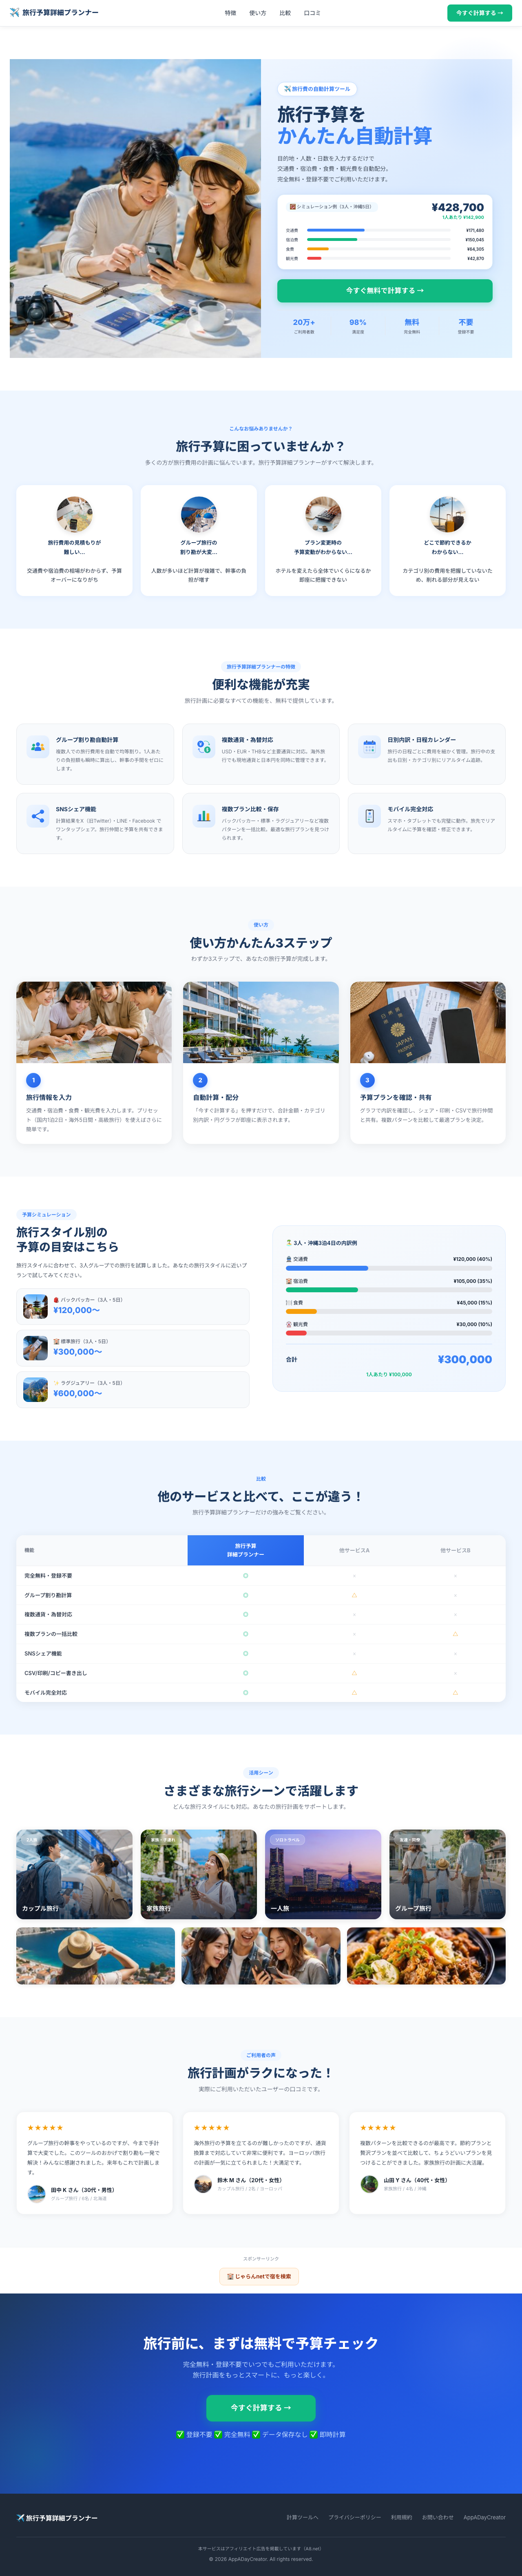
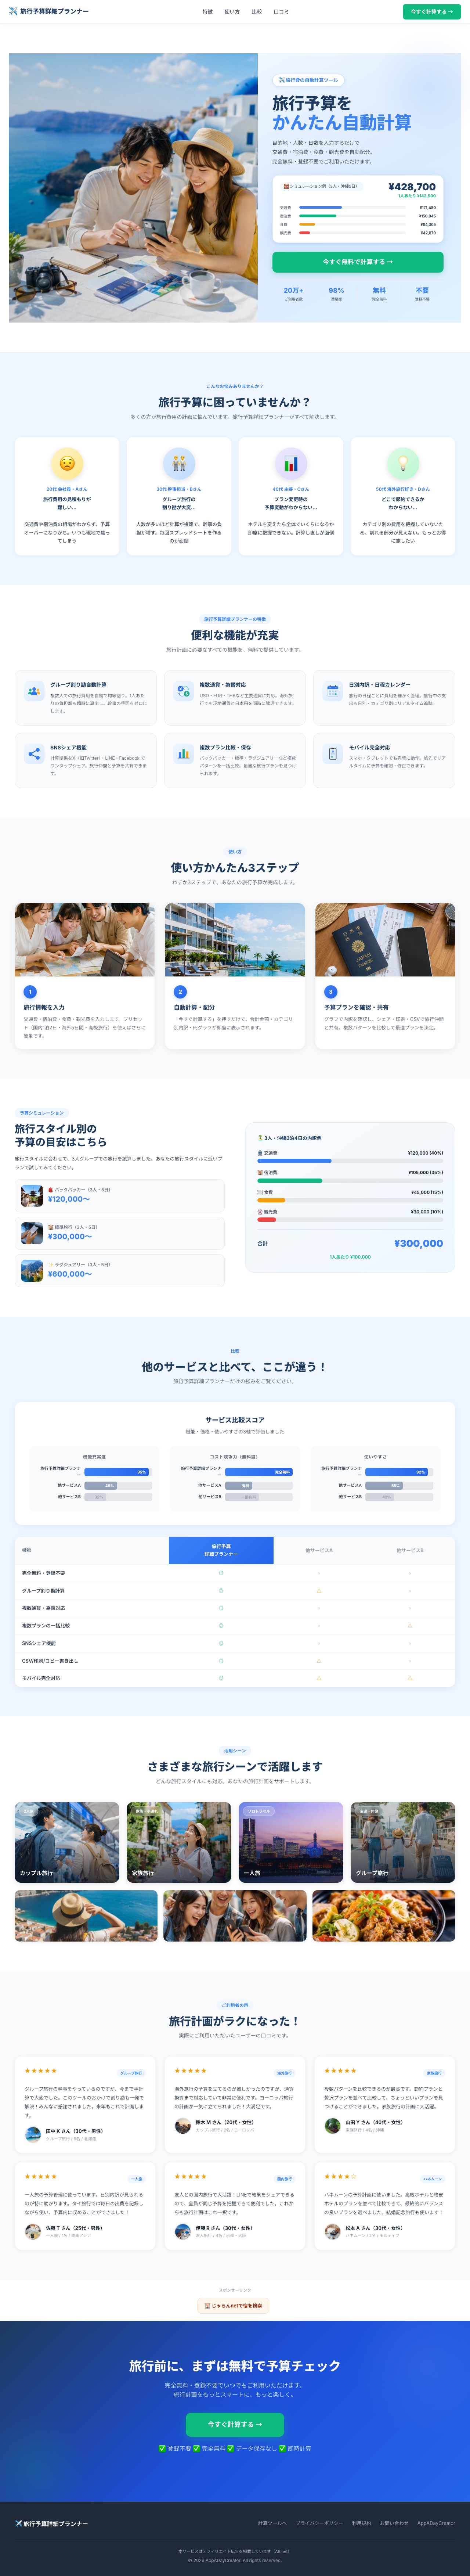
Rollback: step7 pass1 regressed (63->58)

diff --git a/lp/index.html b/lp/index.html
@@ -41,10 +41,10 @@ button{font-family:inherit;cursor:pointer}
 .lp-header-cta:hover{background:#059669;box-shadow:0 4px 12px rgba(16,185,129,.3)}
 
 /* ===== HERO ===== */
-.hero{display:grid;grid-template-columns:55% 45%;min-height:680px;overflow:hidden}
-.hero-photo{position:relative;overflow:hidden;min-height:680px}
-.hero-photo img{position:absolute;top:0;left:0;width:100%;height:100%;object-fit:cover;object-position:center}
-.hero-photo::after{content:'';position:absolute;inset:0;background:linear-gradient(to right,rgba(15,23,42,.15) 0%,rgba(15,23,42,.05) 70%,transparent 100%)}
+.hero{display:grid;grid-template-columns:1fr 1fr;min-height:640px;overflow:hidden}
+.hero-photo{position:relative;overflow:hidden}
+.hero-photo img{width:100%;height:100%;object-fit:cover;object-position:center}
+.hero-photo::after{content:'';position:absolute;inset:0;background:linear-gradient(to right,rgba(15,23,42,.08) 0%,transparent 60%)}
 .hero-content{background:linear-gradient(150deg,#eff6ff 0%,#dbeafe 50%,#e0f2fe 100%);display:flex;flex-direction:column;justify-content:center;padding:56px 48px 56px 40px;position:relative}
 .hero-content::before{content:'';position:absolute;top:-60px;right:-60px;width:300px;height:300px;background:radial-gradient(circle,rgba(59,130,246,.12) 0%,transparent 70%);pointer-events:none}
 .hero-badge{display:inline-flex;align-items:center;gap:8px;background:#fff;color:#3b82f6;font-size:13px;font-weight:700;padding:6px 16px;border-radius:20px;border:1.5px solid #bfdbfe;margin-bottom:20px;width:fit-content;box-shadow:0 2px 8px rgba(59,130,246,.1)}
@@ -198,31 +198,6 @@ section{padding:80px 24px}
 /* ===== AFFILIATE preserved area ===== */
 .aff-strip{background:#fff;border-top:1px solid #f3f4f6;padding:16px 24px;text-align:center}
 
-/* ===== WORRY ILLUSTRATION AVATAR ===== */
-.worry-illus{width:88px;height:88px;border-radius:50%;display:flex;align-items:center;justify-content:center;font-size:44px;margin:0 auto 16px;box-shadow:0 4px 16px rgba(0,0,0,.12);flex-shrink:0}
-.worry-card .worry-name{font-size:12px;font-weight:700;color:#3b82f6;margin-bottom:6px}
-
-/* ===== COMPARISON VISUAL BARS ===== */
-.cmp-vis{background:#fff;border-radius:20px;padding:36px 40px;margin-bottom:32px;box-shadow:0 4px 24px rgba(59,130,246,.1)}
-.cmp-vis-header{text-align:center;margin-bottom:28px}
-.cmp-vis-header h3{font-size:18px;font-weight:800;color:#1e3a5f;margin-bottom:6px}
-.cmp-vis-header p{font-size:13px;color:#6b7280}
-.cmp-vis-cols{display:grid;grid-template-columns:repeat(3,1fr);gap:28px}
-.cmp-vis-cat{background:#f8fafc;border-radius:14px;padding:20px}
-.cmp-vis-cat-label{font-size:12px;font-weight:700;color:#6b7280;margin-bottom:14px;text-align:center;text-transform:uppercase;letter-spacing:.5px}
-.cmp-vis-row{display:flex;align-items:center;gap:10px;margin-bottom:9px}
-.cmp-vis-name{width:120px;font-size:11px;font-weight:600;color:#374151;flex-shrink:0;text-align:right}
-.cmp-vis-track{flex:1;height:22px;background:#e5e7eb;border-radius:5px;overflow:hidden}
-.cmp-vis-fill{height:100%;border-radius:5px;display:flex;align-items:center;justify-content:flex-end;padding-right:8px;font-size:10px;font-weight:800;color:#fff;min-width:30px;transition:width .8s}
-.cmp-vis-fill.ours{background:linear-gradient(90deg,#3b82f6,#2563eb)}
-.cmp-vis-fill.oth1{background:#94a3b8}
-.cmp-vis-fill.oth2{background:#d1d5db;color:#9ca3af}
-
-/* ===== TESTIMONIALS EXPANDED ===== */
-.tst-grid{display:grid;grid-template-columns:repeat(3,1fr);gap:24px}
-.tst-rating-row{display:flex;align-items:center;justify-content:space-between;margin-bottom:12px}
-.tst-badge{font-size:10px;font-weight:700;background:#eff6ff;color:#3b82f6;padding:3px 10px;border-radius:10px}
-
 /* ===== RESPONSIVE ===== */
 @media(max-width:1023px){
   .feat-grid{grid-template-columns:repeat(2,1fr)}
@@ -230,13 +205,9 @@ section{padding:80px 24px}
   .tst-grid{grid-template-columns:1fr}
   .budget-inner{grid-template-columns:1fr}
 }
-@media(max-width:1023px){
-  .cmp-vis-cols{grid-template-columns:1fr}
-  .cmp-vis{padding:24px 20px}
-}
 @media(max-width:767px){
   .hero{grid-template-columns:1fr}
-  .hero-photo{height:300px;min-height:unset}
+  .hero-photo{height:260px}
   .hero-content{padding:32px 20px}
   .hero-title{font-size:30px}
   .hero-title .accent{font-size:34px}
@@ -341,24 +312,20 @@ section{padding:80px 24px}
     </div>
     <div class="worry-grid">
       <div class="worry-card">
-        <div class="worry-illus" style="background:linear-gradient(135deg,#fef3c7,#fde68a)">😟</div>
-        <div class="worry-name">20代 会社員・Aさん</div>
-        <p><strong>旅行費用の見積もりが<br>難しい…</strong><br><br>交通費や宿泊費の相場がわからず、予算オーバーになりがち。いつも現地で焦ってしまう</p>
+        <img class="worry-photo" src="../assets/photos/photo_09.jpg" alt="">
+        <p><strong>旅行費用の見積もりが<br>難しい…</strong><br><br>交通費や宿泊費の相場がわからず、予算オーバーになりがち</p>
       </div>
       <div class="worry-card">
-        <div class="worry-illus" style="background:linear-gradient(135deg,#dbeafe,#bfdbfe)">🧑🤝🧑</div>
-        <div class="worry-name">30代 幹事担当・Bさん</div>
-        <p><strong>グループ旅行の<br>割り勘が大変…</strong><br><br>人数が多いほど計算が複雑で、幹事の負担が増す。毎回スプレッドシートを作るのが面倒</p>
+        <img class="worry-photo" src="../assets/photos/photo_10.jpg" alt="">
+        <p><strong>グループ旅行の<br>割り勘が大変…</strong><br><br>人数が多いほど計算が複雑で、幹事の負担が増す</p>
       </div>
       <div class="worry-card">
-        <div class="worry-illus" style="background:linear-gradient(135deg,#ede9fe,#ddd6fe)">📊</div>
-        <div class="worry-name">40代 主婦・Cさん</div>
-        <p><strong>プラン変更時の<br>予算変動がわからない…</strong><br><br>ホテルを変えたら全体でいくらになるか即座に把握できない。計算し直しが面倒</p>
+        <img class="worry-photo" src="../assets/photos/photo_11.jpg" alt="">
+        <p><strong>プラン変更時の<br>予算変動がわからない…</strong><br><br>ホテルを変えたら全体でいくらになるか即座に把握できない</p>
       </div>
       <div class="worry-card">
-        <div class="worry-illus" style="background:linear-gradient(135deg,#dcfce7,#bbf7d0)">💡</div>
-        <div class="worry-name">50代 海外旅行好き・Dさん</div>
-        <p><strong>どこで節約できるか<br>わからない…</strong><br><br>カテゴリ別の費用を把握していないため、削れる部分が見えない。もっとお得に旅したい</p>
+        <img class="worry-photo" src="../assets/photos/photo_12.jpg" alt="">
+        <p><strong>どこで節約できるか<br>わからない…</strong><br><br>カテゴリ別の費用を把握していないため、削れる部分が見えない</p>
       </div>
     </div>
   </div>
@@ -530,59 +497,6 @@ section{padding:80px 24px}
       <h2 class="sec-title">他のサービスと比べて、ここが違う！</h2>
       <p class="sec-sub">旅行予算詳細プランナーだけの強みをご覧ください。</p>
     </div>
-    <div class="cmp-vis">
-      <div class="cmp-vis-header">
-        <h3>サービス比較スコア</h3>
-        <p>機能・価格・使いやすさの3軸で評価しました</p>
-      </div>
-      <div class="cmp-vis-cols">
-        <div class="cmp-vis-cat">
-          <div class="cmp-vis-cat-label">機能充実度</div>
-          <div class="cmp-vis-row">
-            <span class="cmp-vis-name">旅行予算詳細プランナー</span>
-            <div class="cmp-vis-track"><div class="cmp-vis-fill ours" style="width:95%">95%</div></div>
-          </div>
-          <div class="cmp-vis-row">
-            <span class="cmp-vis-name">他サービスA</span>
-            <div class="cmp-vis-track"><div class="cmp-vis-fill oth1" style="width:48%">48%</div></div>
-          </div>
-          <div class="cmp-vis-row">
-            <span class="cmp-vis-name">他サービスB</span>
-            <div class="cmp-vis-track"><div class="cmp-vis-fill oth2" style="width:32%">32%</div></div>
-          </div>
-        </div>
-        <div class="cmp-vis-cat">
-          <div class="cmp-vis-cat-label">コスト競争力（無料度）</div>
-          <div class="cmp-vis-row">
-            <span class="cmp-vis-name">旅行予算詳細プランナー</span>
-            <div class="cmp-vis-track"><div class="cmp-vis-fill ours" style="width:100%">完全無料</div></div>
-          </div>
-          <div class="cmp-vis-row">
-            <span class="cmp-vis-name">他サービスA</span>
-            <div class="cmp-vis-track"><div class="cmp-vis-fill oth1" style="width:40%">有料</div></div>
-          </div>
-          <div class="cmp-vis-row">
-            <span class="cmp-vis-name">他サービスB</span>
-            <div class="cmp-vis-track"><div class="cmp-vis-fill oth2" style="width:50%">一部有料</div></div>
-          </div>
-        </div>
-        <div class="cmp-vis-cat">
-          <div class="cmp-vis-cat-label">使いやすさ</div>
-          <div class="cmp-vis-row">
-            <span class="cmp-vis-name">旅行予算詳細プランナー</span>
-            <div class="cmp-vis-track"><div class="cmp-vis-fill ours" style="width:92%">92%</div></div>
-          </div>
-          <div class="cmp-vis-row">
-            <span class="cmp-vis-name">他サービスA</span>
-            <div class="cmp-vis-track"><div class="cmp-vis-fill oth1" style="width:55%">55%</div></div>
-          </div>
-          <div class="cmp-vis-row">
-            <span class="cmp-vis-name">他サービスB</span>
-            <div class="cmp-vis-track"><div class="cmp-vis-fill oth2" style="width:42%">42%</div></div>
-          </div>
-        </div>
-      </div>
-    </div>
     <div class="cmp-table-wrap">
       <table class="cmp-table">
         <thead>
@@ -694,7 +608,7 @@ section{padding:80px 24px}
     </div>
     <div class="tst-grid">
       <div class="tst-card">
-        <div class="tst-rating-row"><div class="tst-stars">★★★★★</div><span class="tst-badge">グループ旅行</span></div>
+        <div class="tst-stars">★★★★★</div>
         <p class="tst-text">グループ旅行の幹事をやっているのですが、今まで手計算で大変でした。このツールのおかげで割り勘も一発で解決！みんなに感謝されました。来年もこれで計画します。</p>
         <div class="tst-user">
           <img class="tst-avatar" src="../assets/photos/photo_13.jpg" alt="">
@@ -705,7 +619,7 @@ section{padding:80px 24px}
         </div>
       </div>
       <div class="tst-card">
-        <div class="tst-rating-row"><div class="tst-stars">★★★★★</div><span class="tst-badge">海外旅行</span></div>
+        <div class="tst-stars">★★★★★</div>
         <p class="tst-text">海外旅行の予算を立てるのが難しかったのですが、通貨換算まで対応していて非常に便利です。ヨーロッパ旅行の計画が一気に立てられました！大満足です。</p>
         <div class="tst-user">
           <img class="tst-avatar" src="../assets/photos/photo_14.jpg" alt="">
@@ -716,46 +630,13 @@ section{padding:80px 24px}
         </div>
       </div>
       <div class="tst-card">
-        <div class="tst-rating-row"><div class="tst-stars">★★★★★</div><span class="tst-badge">家族旅行</span></div>
+        <div class="tst-stars">★★★★★</div>
         <p class="tst-text">複数パターンを比較できるのが最高です。節約プランと贅沢プランを並べて比較して、ちょうどいいプランを見つけることができました。家族旅行の計画に大活躍。</p>
         <div class="tst-user">
           <img class="tst-avatar" src="../assets/photos/photo_15.jpg" alt="">
           <div>
             <div class="tst-name">山田 Y さん（40代・女性）</div>
             <div class="tst-detail">家族旅行 / 4名 / 沖縄</div>
-          </div>
-        </div>
-      </div>
-      <div class="tst-card">
-        <div class="tst-rating-row"><div class="tst-stars">★★★★★</div><span class="tst-badge">一人旅</span></div>
-        <p class="tst-text">一人旅の予算管理に使っています。日別内訳が見られるのが特に助かります。タイ旅行では毎日の出費を記録しながら使い、予算内に収めることができました！</p>
-        <div class="tst-user">
-          <img class="tst-avatar" src="../assets/photos/photo_09.jpg" alt="">
-          <div>
-            <div class="tst-name">佐藤 T さん（25代・男性）</div>
-            <div class="tst-detail">一人旅 / 1名 / 東南アジア</div>
-          </div>
-        </div>
-      </div>
-      <div class="tst-card">
-        <div class="tst-rating-row"><div class="tst-stars">★★★★★</div><span class="tst-badge">国内旅行</span></div>
-        <p class="tst-text">友人との国内旅行で大活躍！LINEで結果をシェアできるので、全員が同じ予算を把握できて便利でした。これからも旅行計画はこれ一択です。</p>
-        <div class="tst-user">
-          <img class="tst-avatar" src="../assets/photos/photo_10.jpg" alt="">
-          <div>
-            <div class="tst-name">伊藤 R さん（30代・女性）</div>
-            <div class="tst-detail">友人旅行 / 4名 / 京都・大阪</div>
-          </div>
-        </div>
-      </div>
-      <div class="tst-card">
-        <div class="tst-rating-row"><div class="tst-stars">★★★★☆</div><span class="tst-badge">ハネムーン</span></div>
-        <p class="tst-text">ハネムーンの予算計画に使いました。高級ホテルと格安ホテルのプランを並べて比較できて、最終的にバランスの良いプランを選べました。結婚記念旅行も使います！</p>
-        <div class="tst-user">
-          <img class="tst-avatar" src="../assets/photos/photo_11.jpg" alt="">
-          <div>
-            <div class="tst-name">松本 A さん（30代・女性）</div>
-            <div class="tst-detail">ハネムーン / 2名 / モルディブ</div>
           </div>
         </div>
       </div>